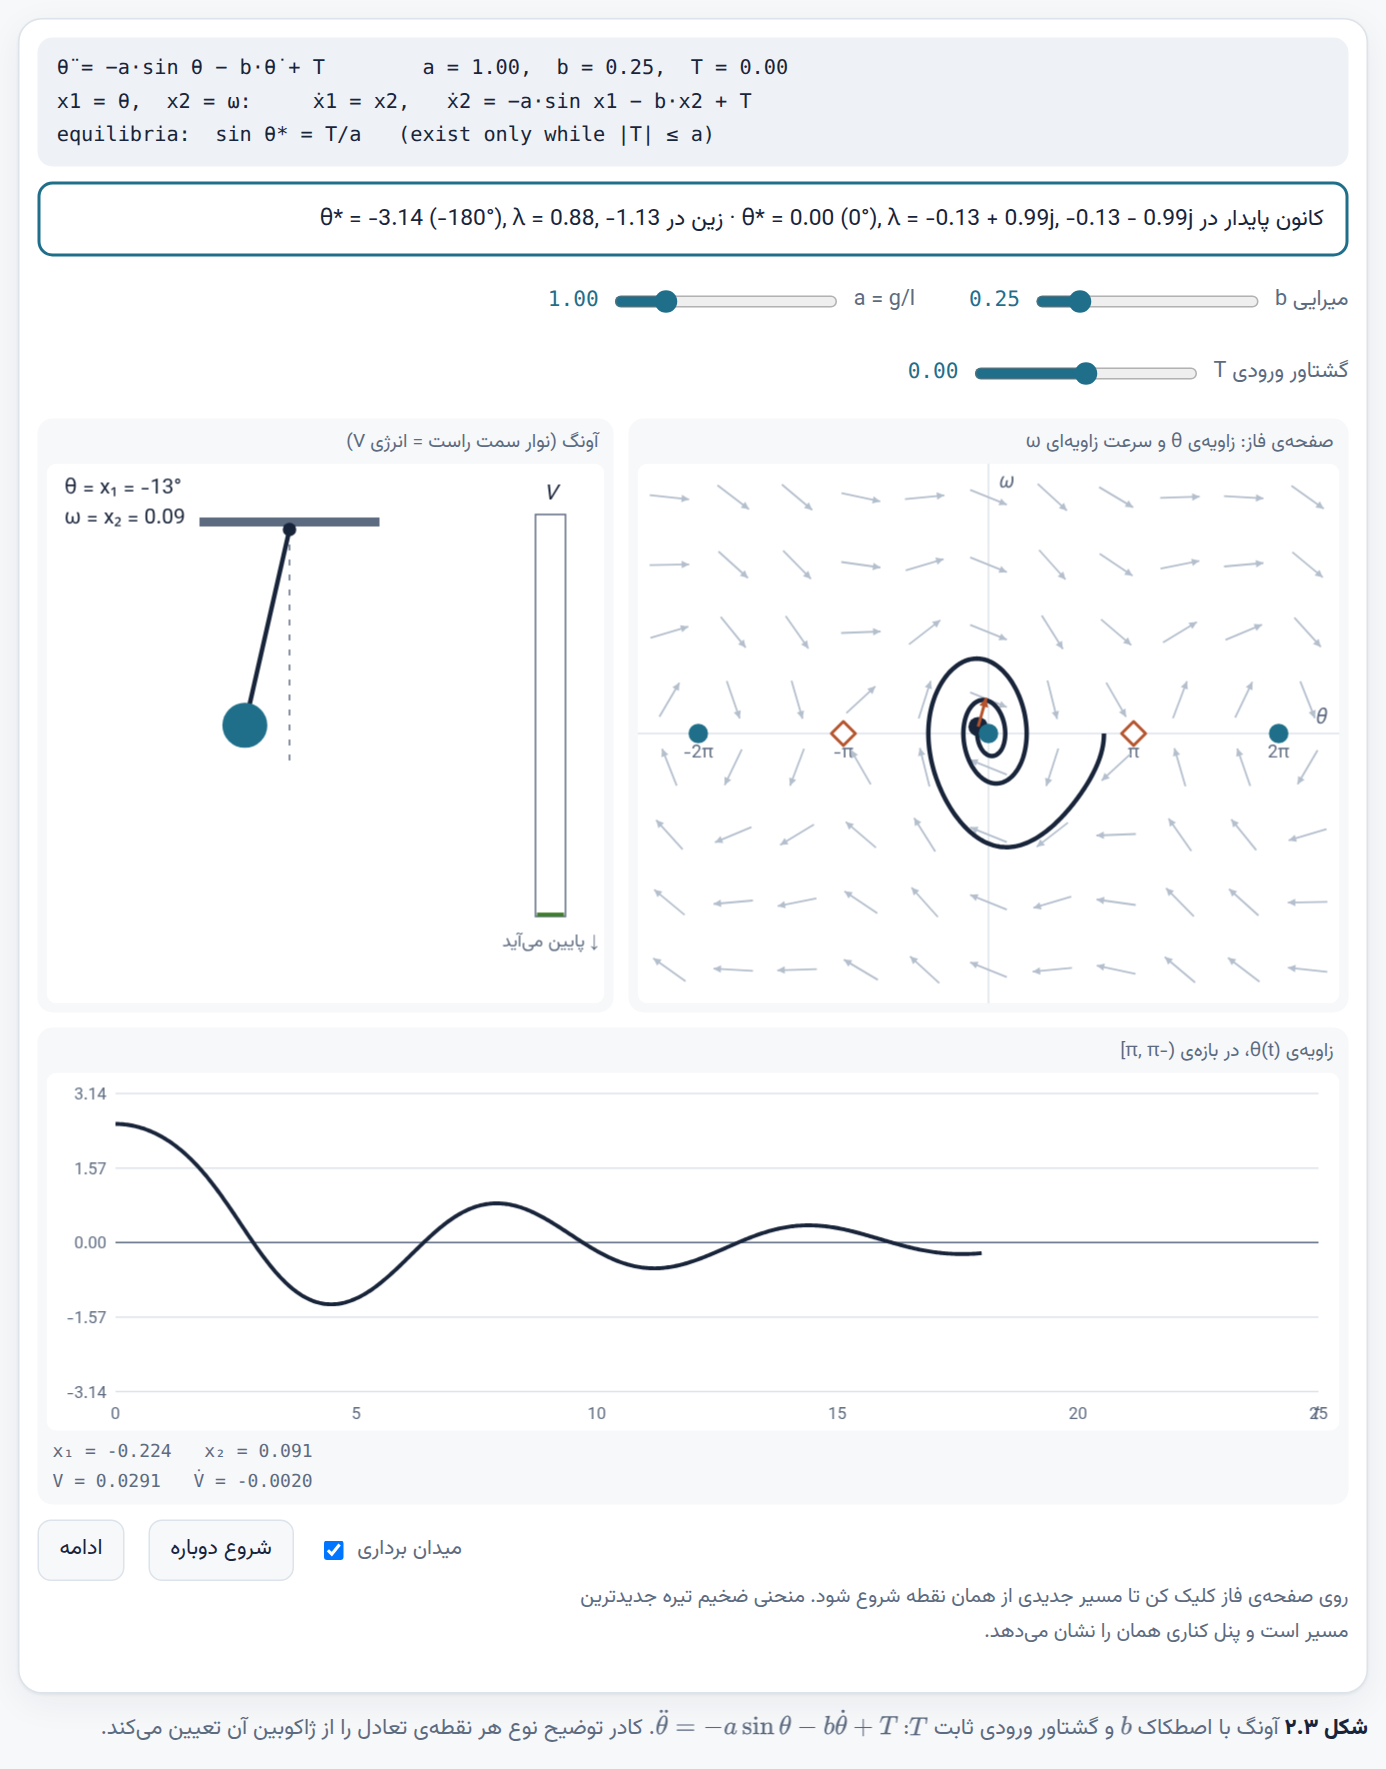
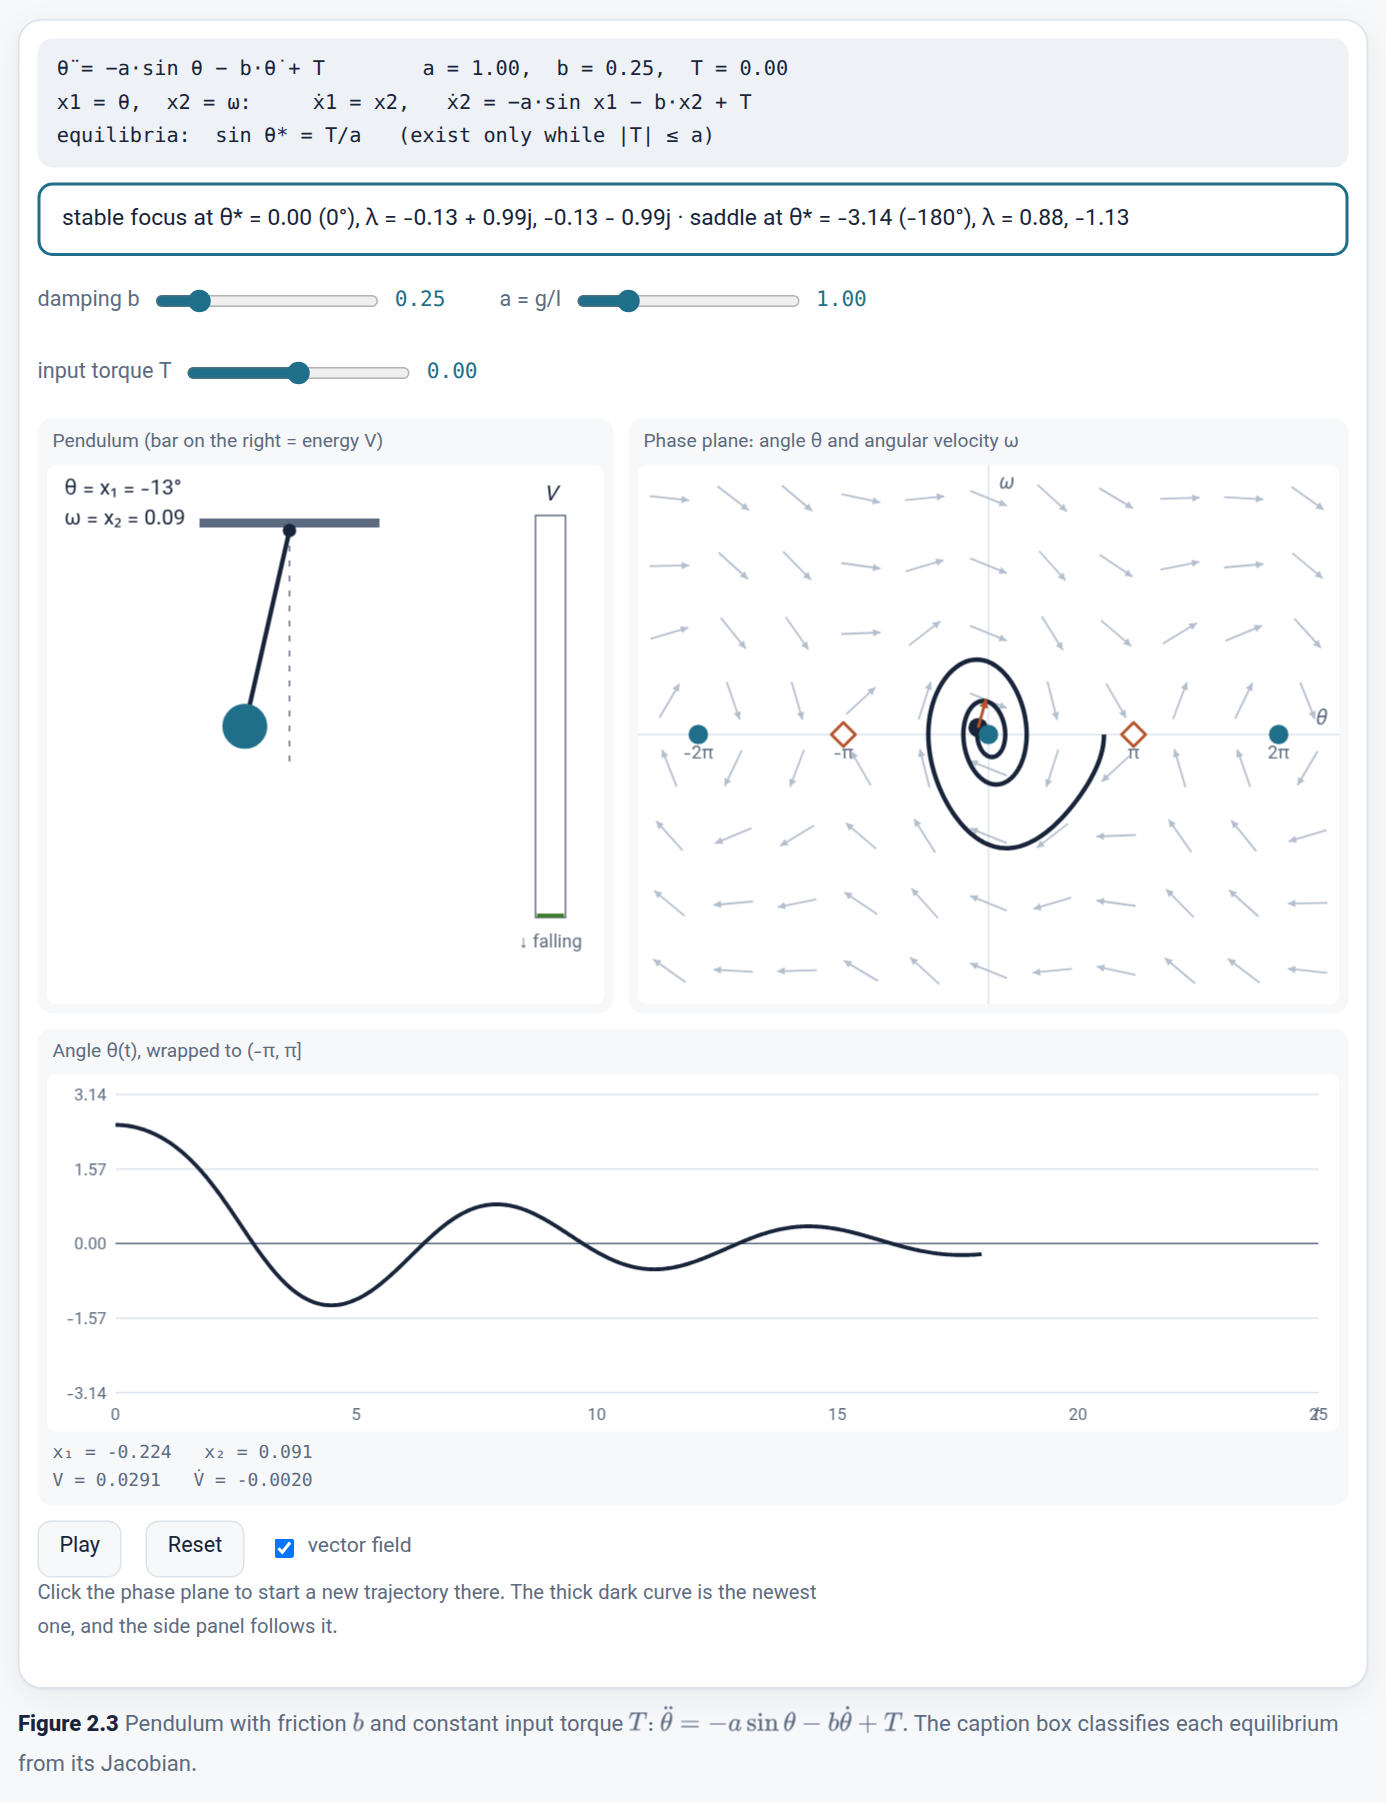
Update README and scripts for English language support; add new images and GIFs

diff --git a/README.md b/README.md
@@ -6,7 +6,7 @@
 One page per chapter, with live simulations you can click and tune.
 
 ![Go](https://img.shields.io/badge/Go-1.22%2B-00ADD8?logo=go&logoColor=white)
-![Languages](https://img.shields.io/badge/languages-فارسی%20%7C%20English-1f6f8b)
+![Languages](https://img.shields.io/badge/languages-English%20%7C%20Persian-1f6f8b)
 ![Chapters](https://img.shields.io/badge/chapters-14-3f7d2c)
 ![Interactive figures](https://img.shields.io/badge/interactive%20figures-37-b5532c)
 ![Dependencies](https://img.shields.io/badge/Go%20dependencies-none-555)
@@ -81,26 +81,26 @@ The site is written for Persian-speaking students first (Persian is the default 
 
 ### Home page
 
-| Persian (default) | English |
+| Light theme | Dark theme |
 | :---: | :---: |
-| <img src="docs/screenshots/home-fa.png" alt="Persian home page" width="420"> | <img src="docs/screenshots/home-en.png" alt="English home page with the chapter grid" width="420"> |
-
-| Dark theme | On a phone |
-| :---: | :---: |
-| <img src="docs/screenshots/home-dark.png" alt="Home page in the dark theme" width="420"> | <img src="docs/screenshots/mobile-fa.png" alt="Chapter 2 on a phone, in Persian" width="210"> |
+| <img src="docs/screenshots/home-en.png" alt="Home page with the chapter grid" width="420"> | <img src="docs/screenshots/home-dark.png" alt="Home page in the dark theme" width="420"> |
 
 ### A chapter page
 
-<img src="docs/screenshots/chapter-fa.png" alt="Chapter 4 in Persian, with the table of contents and reading progress on the side" width="820">
+<img src="docs/screenshots/chapter-en.png" alt="Chapter 4, with the table of contents and reading progress on the side" width="820">
 
-*Chapter 4 (Lyapunov stability) in Persian: table of contents and reading progress on the side, chapter text with MathJax formulas, and figures inline.*
+*Chapter 4 (Lyapunov stability): table of contents and reading progress on the side, chapter text with MathJax formulas, and figures inline.*
+
+### On a phone
+
+<img src="docs/screenshots/mobile-en.png" alt="Chapter 2 on a phone: the linear systems figure stacked vertically" width="260">
 
 ### Interactive figures
 
 | | |
 | :---: | :---: |
 | <img src="docs/screenshots/lab-ch4-lyapunov.png" alt="Example 4.4: pendulum with friction and two Lyapunov functions" width="420"><br>**Example 4.4** – the pendulum with friction and two candidate Lyapunov functions. With the energy, V̇ is only semidefinite: see the flat steps in V(t). | <img src="docs/screenshots/lab-ch4-roa-estimate.png" alt="Example 4.5: variable gradient method and region of attraction estimate" width="420"><br>**Example 4.5** – the variable gradient method. The thick curve is the largest level set inside D, a safe estimate of the region of attraction. |
-| <img src="docs/screenshots/lab-ch2-pendulum.png" alt="Chapter 2: pendulum with input torque, in Persian" width="420"><br>**Chapter 2** – the pendulum with friction and input torque. Each equilibrium is classified from its Jacobian; raising the torque makes two equilibria merge and vanish. | <img src="docs/screenshots/lab-ch1-tunnel-diode.png" alt="Chapter 1: tunnel diode circuit with three equilibria" width="420"><br>**Chapter 1** – the tunnel-diode circuit. The load line cuts the diode curve three times: two stable states and a saddle, a one-bit memory. |
+| <img src="docs/screenshots/lab-ch2-pendulum.png" alt="Chapter 2: pendulum with input torque" width="420"><br>**Chapter 2** – the pendulum with friction and input torque. Each equilibrium is classified from its Jacobian; raising the torque makes two equilibria merge and vanish. | <img src="docs/screenshots/lab-ch1-tunnel-diode.png" alt="Chapter 1: tunnel diode circuit with three equilibria" width="420"><br>**Chapter 1** – the tunnel-diode circuit. The load line cuts the diode curve three times: two stable states and a saddle, a one-bit memory. |
 | <img src="docs/screenshots/lab-ch8-region-of-attraction.png" alt="Chapter 8: estimating the region of attraction of the reversed Van der Pol oscillator" width="420"><br>**Chapter 8** – estimating the region of attraction. The level set must avoid the yellow region where V̇ > 0; the dashed curve is the true boundary. | <img src="docs/screenshots/lab-ch7-circle-criterion.png" alt="Chapter 7: circle criterion with Nyquist plot and sector" width="420"><br>**Chapter 7** – the circle criterion. The Nyquist plot of G(jω) must avoid the forbidden half-plane or disk for the sector [α, β]. |
 | <img src="docs/screenshots/lab-ch4-robot-dog.png" alt="Robot dog balanced by a Lyapunov-designed controller" width="420"><br>**Application** – a balancing robot. The controller turns the hilltop into a bowl; the Lyapunov function proves it stays upright. | <img src="docs/screenshots/lab-ch14-sliding-mode-dark.png" alt="Chapter 14: sliding mode control in the dark theme" width="420"><br>**Chapter 14** – sliding mode control (dark theme). The state reaches the sliding surface in finite time; the dashed u(t)/k shows the chattering. |
 
@@ -111,8 +111,8 @@ The site is written for Persian-speaking students first (Persian is the default 
 <table>
 <tr>
 <td width="50%" align="center">
-<img src="docs/gifs/pendulum-bifurcation-fa.gif" alt="Pendulum bifurcation demo in Persian" width="380"><br>
-<b>Saddle-node bifurcation (Persian).</b> Two trajectories are started by clicking, then the input torque T is raised past a: the stable equilibrium and the saddle merge and vanish, and the pendulum spins forever.
+<img src="docs/gifs/pendulum-bifurcation.gif" alt="Pendulum bifurcation demo" width="380"><br>
+<b>Saddle-node bifurcation.</b> Two trajectories are started by clicking, then the input torque T is raised past a: the stable equilibrium and the saddle merge and vanish, and the pendulum spins forever.
 </td>
 <td width="50%" align="center">
 <img src="docs/gifs/region-of-attraction.gif" alt="Region of attraction demo" width="380"><br>
